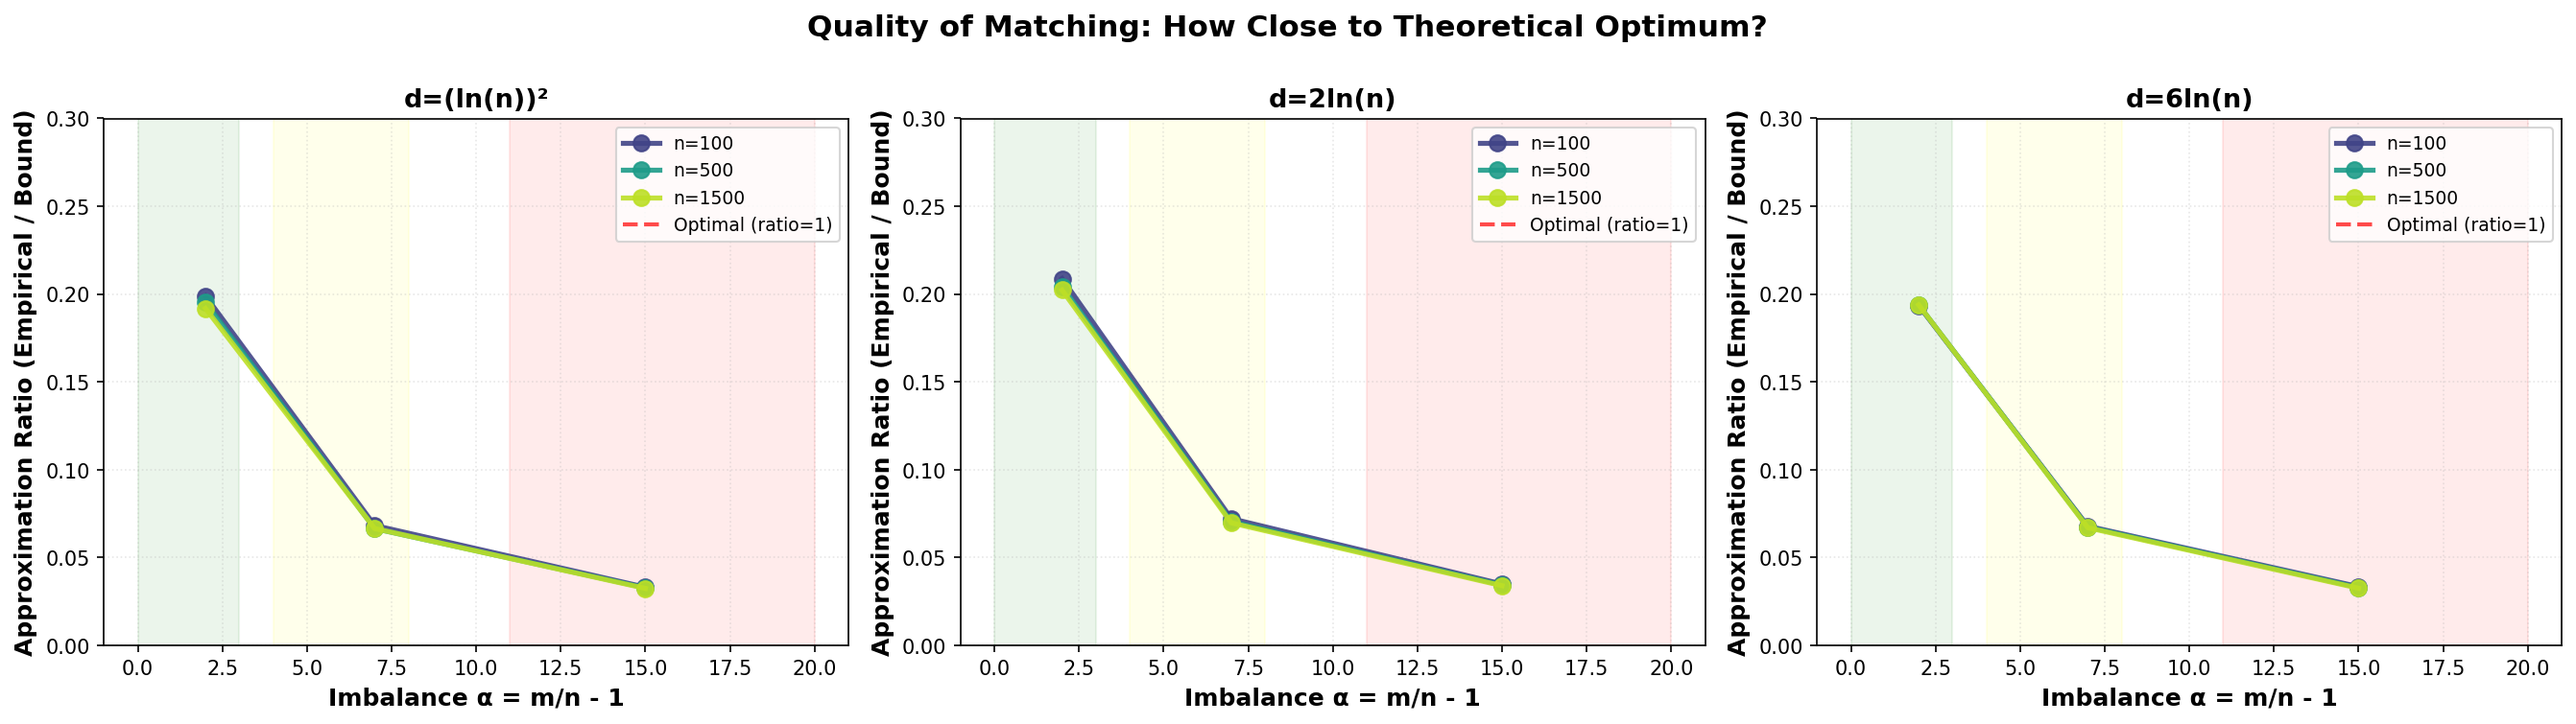
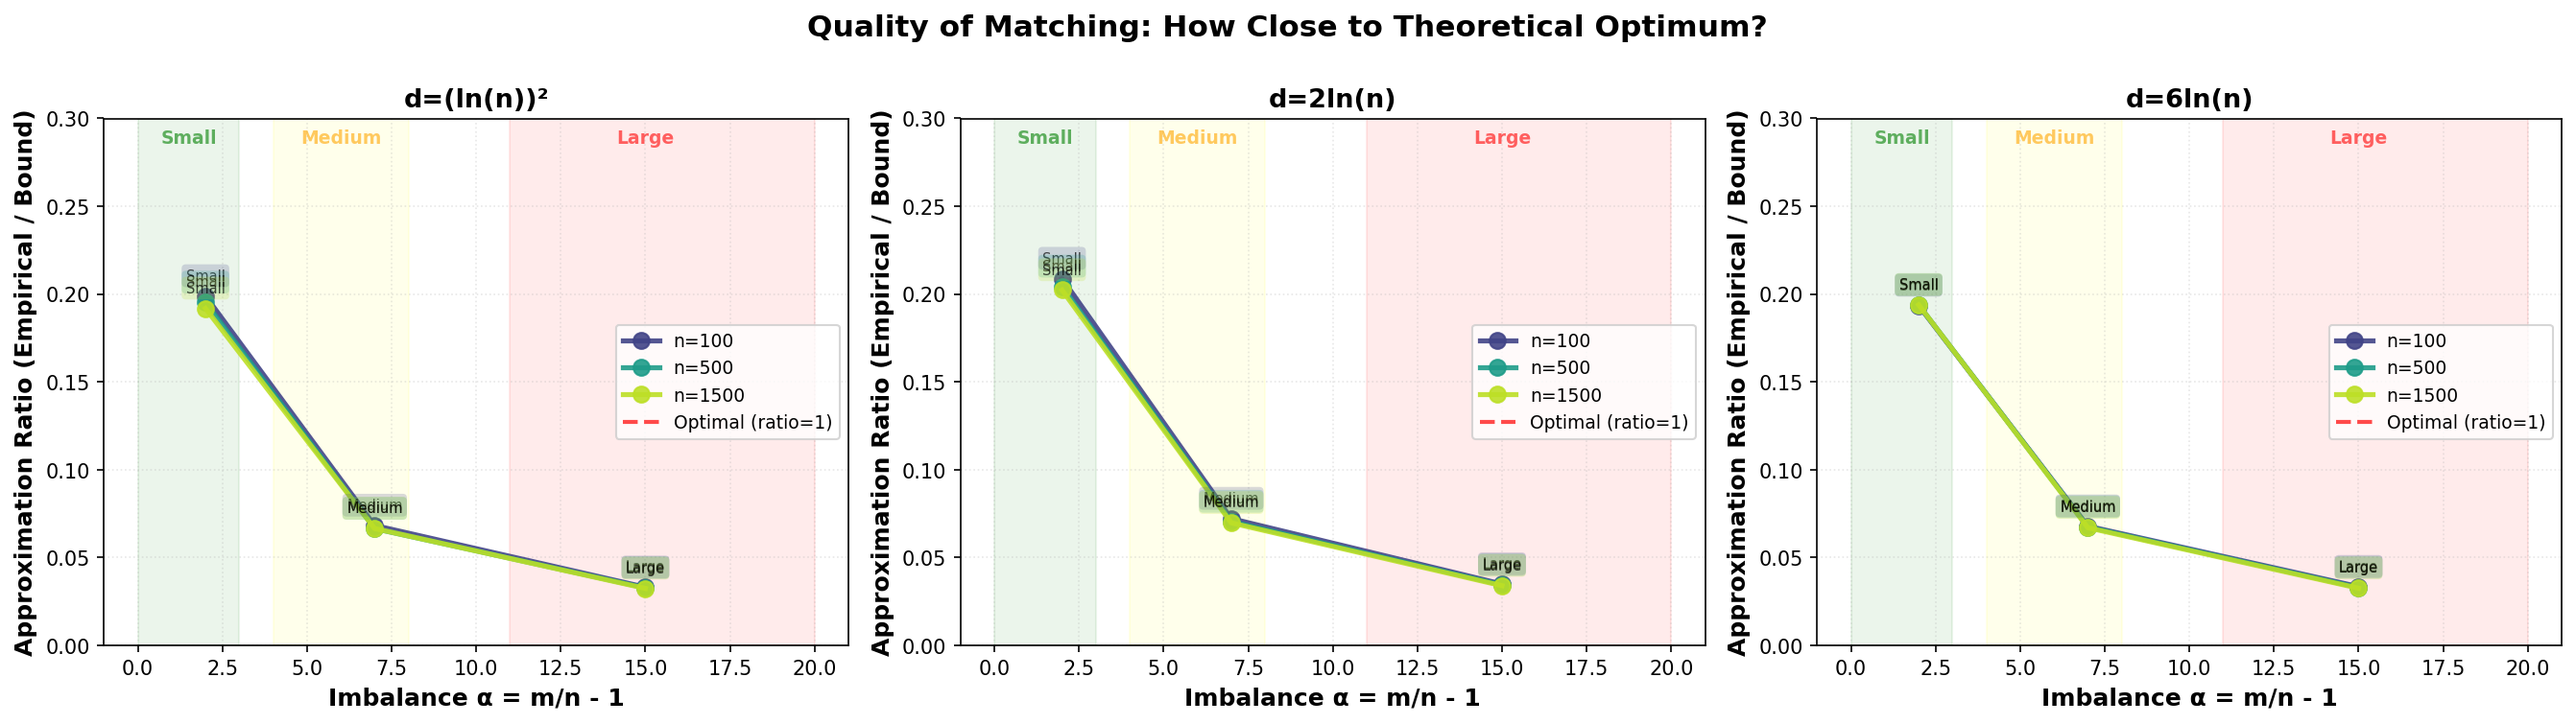
Streamline to 3 plots with regime labels
Changes:
- Removed plot 4 (rank distribution) as unnecessary
- Added Small/Medium/Large regime labels to all data points
- Plot 1: Points annotated with regime, regime text in plot
- Plot 2: Points annotated with regime, regime text in plot
- Plot 3: Legend uses 'Small/Medium/Large Imbalance' labels
- Updated all documentation (README, PLOTS_GUIDE)

The 3-plot story:
1. Rank vs Imbalance (MAIN) - shows degradation with regime labels
2. Approximation Ratio (Quality) - shows DA performance by regime
3. Perfect Matching Threshold (Feasibility) - phase transition by regime

Every plot now clearly identifies which regime each data point belongs to.

diff --git a/experiments/plots.py b/experiments/plots.py
@@ -7,6 +7,15 @@ def load_results(filename='../results/sweep_results.csv'):
     """load sweep results from csv"""
     return pd.read_csv(filename)
 
+def get_regime_label(alpha):
+    """Get regime label for alpha value."""
+    if alpha <= 3:
+        return "Small"
+    elif alpha <= 8:
+        return "Medium"
+    else:
+        return "Large"
+
 def plot_1_rank_by_imbalance(df):
     """THE MAIN PLOT: How proposer outcomes degrade as competition increases.
     
@@ -44,6 +53,16 @@ def plot_1_rank_by_imbalance(df):
             axes[idx].plot(n_data['alpha'], n_data['lb_rank'],
                           linestyle='--', linewidth=2, color=color, alpha=0.6,
                           label=f'n={n_val} (bound)')
+            
+            # Add regime labels to data points
+            for _, row in n_data.iterrows():
+                regime = get_regime_label(row['alpha'])
+                axes[idx].annotate(regime, 
+                                  xy=(row['alpha'], row['avg_proposer_rank']),
+                                  xytext=(0, 8), textcoords='offset points',
+                                  ha='center', fontsize=7, alpha=0.7,
+                                  bbox=dict(boxstyle='round,pad=0.3', 
+                                          facecolor=color, alpha=0.2, edgecolor='none'))
         
         axes[idx].set_xlabel('Imbalance α = m/n - 1', fontsize=12, fontweight='bold')
         axes[idx].set_ylabel('Average Proposer Rank', fontsize=12, fontweight='bold')
@@ -51,10 +70,19 @@ def plot_1_rank_by_imbalance(df):
         axes[idx].legend(fontsize=9, loc='best')
         axes[idx].grid(alpha=0.3, linestyle=':')
         
-        # Add regime shading
+        # Add regime shading with labels
         axes[idx].axvspan(0, 3, alpha=0.08, color='green')
         axes[idx].axvspan(4, 8, alpha=0.08, color='yellow')
         axes[idx].axvspan(11, 20, alpha=0.08, color='red')
+        
+        # Add regime text labels
+        y_pos = axes[idx].get_ylim()[1] * 0.98
+        axes[idx].text(1.5, y_pos, 'Small', ha='center', va='top', 
+                      fontsize=9, fontweight='bold', alpha=0.6, color='green')
+        axes[idx].text(6, y_pos, 'Medium', ha='center', va='top',
+                      fontsize=9, fontweight='bold', alpha=0.6, color='orange')
+        axes[idx].text(15, y_pos, 'Large', ha='center', va='top',
+                      fontsize=9, fontweight='bold', alpha=0.6, color='red')
     
     plt.suptitle('Rank vs Competition: How Proposer Outcomes Degrade with Imbalance', 
                 fontsize=15, fontweight='bold', y=1.00)
@@ -87,6 +115,16 @@ def plot_2_gap_visualization(df):
             axes[idx].plot(n_data['alpha'], n_data['ratio'],
                           marker='o', linewidth=2.5, markersize=8,
                           label=f'n={n_val}', color=color, alpha=0.9)
+            
+            # Add regime labels to data points
+            for _, row in n_data.iterrows():
+                regime = get_regime_label(row['alpha'])
+                axes[idx].annotate(regime, 
+                                  xy=(row['alpha'], row['ratio']),
+                                  xytext=(0, 8), textcoords='offset points',
+                                  ha='center', fontsize=7, alpha=0.7,
+                                  bbox=dict(boxstyle='round,pad=0.3', 
+                                          facecolor=color, alpha=0.2, edgecolor='none'))
         
         # Add horizontal line at ratio=1 (optimal)
         axes[idx].axhline(1.0, color='red', linestyle='--', linewidth=2, 
@@ -99,10 +137,19 @@ def plot_2_gap_visualization(df):
         axes[idx].grid(alpha=0.3, linestyle=':')
         axes[idx].set_ylim([0, max(df['ratio'].max() * 1.1, 0.3)])
         
-        # Add regime shading
+        # Add regime shading with labels
         axes[idx].axvspan(0, 3, alpha=0.08, color='green')
         axes[idx].axvspan(4, 8, alpha=0.08, color='yellow')
         axes[idx].axvspan(11, 20, alpha=0.08, color='red')
+        
+        # Add regime text labels
+        y_pos = axes[idx].get_ylim()[1] * 0.98
+        axes[idx].text(1.5, y_pos, 'Small', ha='center', va='top', 
+                      fontsize=9, fontweight='bold', alpha=0.6, color='green')
+        axes[idx].text(6, y_pos, 'Medium', ha='center', va='top',
+                      fontsize=9, fontweight='bold', alpha=0.6, color='orange')
+        axes[idx].text(15, y_pos, 'Large', ha='center', va='top',
+                      fontsize=9, fontweight='bold', alpha=0.6, color='red')
     
     plt.suptitle('Quality of Matching: How Close to Theoretical Optimum?', 
                 fontsize=15, fontweight='bold', y=1.00)
@@ -119,9 +166,9 @@ def plot_3_perfect_matching_threshold(df):
     
     n_vals = sorted(df['n'].unique())
     alpha_regimes = {
-        'Small (α=2)': 2.0,
-        'Medium (α=7)': 7.0,
-        'Large (α=15)': 15.0
+        'Small Imbalance (α=2)': 2.0,
+        'Medium Imbalance (α=7)': 7.0,
+        'Large Imbalance (α=15)': 15.0
     }
     
     colors = ['#2E86AB', '#F18F01', '#C73E1D']
@@ -150,7 +197,7 @@ def plot_3_perfect_matching_threshold(df):
         axes[idx].set_xlabel('Normalized List Length (d / d₀)', fontsize=12, fontweight='bold')
         axes[idx].set_ylabel('Perfect Matching Probability', fontsize=12, fontweight='bold')
         axes[idx].set_title(f'n={n_val}', fontsize=13, fontweight='bold')
-        axes[idx].legend(fontsize=9, loc='best')
+        axes[idx].legend(fontsize=10, loc='best')
         axes[idx].grid(alpha=0.3, linestyle=':')
         axes[idx].set_ylim([-0.05, 1.05])
     
@@ -160,72 +207,9 @@ def plot_3_perfect_matching_threshold(df):
     plt.savefig('../results/plot3_perfect_matching_threshold.png', dpi=150, bbox_inches='tight')
     print('✓ Plot 3: Perfect Matching Threshold (Phase Transition)')
 
-def plot_4_rank_distribution_by_competition(df):
-    """Distribution of proposer ranks across competition regimes.
-    
-    Shows how the distribution shifts and spreads as α increases.
-    Aggregates over all n values for clarity.
-    """
-    plt.figure(figsize=(12, 7))
-    
-    # Define competition regimes
-    regimes = {
-        'Small α=2': 2.0,
-        'Medium α=7': 7.0,
-        'Large α=15': 15.0
-    }
-    
-    colors = ['#2E86AB', '#F18F01', '#C73E1D']
-    
-    # We'll aggregate ranks across all configurations for each α
-    # Since we only have avg_rank per config, we'll create approximate distributions
-    # by using the mean and std to generate samples (assuming normal for visualization)
-    
-    for (regime_name, alpha_val), color in zip(regimes.items(), colors):
-        alpha_data = df[df['alpha'] == alpha_val]
-        
-        # Get all ranks and std for this α
-        ranks = []
-        for _, row in alpha_data.iterrows():
-            # Generate samples from normal distribution for visualization
-            # (in reality, you'd collect all individual proposer ranks from trials)
-            mean = row['avg_proposer_rank']
-            std = row['std_proposer_rank']
-            n_samples = 1000
-            samples = np.random.normal(mean, std, n_samples)
-            samples = samples[samples > 0]  # ranks must be positive
-            ranks.extend(samples)
-        
-        # Plot KDE / histogram
-        plt.hist(ranks, bins=50, alpha=0.3, color=color, density=True, 
-                edgecolor='none', label=f'{regime_name} (histogram)')
-        
-        # Add mean line
-        mean_rank = np.mean(ranks)
-        plt.axvline(mean_rank, color=color, linestyle='--', linewidth=3, 
-                   alpha=0.9, label=f'{regime_name} mean={mean_rank:.1f}')
-    
-    plt.xlabel('Proposer Rank', fontsize=13, fontweight='bold')
-    plt.ylabel('Density', fontsize=13, fontweight='bold')
-    plt.title('Rank Distribution Shifts with Competition\n(Aggregated across all n and d-policies)', 
-             fontsize=15, fontweight='bold')
-    plt.legend(fontsize=11, loc='upper right')
-    plt.grid(alpha=0.3, linestyle=':', axis='y')
-    plt.xlim(left=0)
-    
-    # Add text box with interpretation
-    textstr = 'As competition increases (α ↑):\n• Distribution shifts right\n• Spread increases\n• Average worsens'
-    props = dict(boxstyle='round', facecolor='wheat', alpha=0.8)
-    plt.text(0.02, 0.98, textstr, transform=plt.gca().transAxes, fontsize=11,
-            verticalalignment='top', bbox=props)
-    
-    plt.tight_layout()
-    plt.savefig('../results/plot4_rank_distribution.png', dpi=150, bbox_inches='tight')
-    print('✓ Plot 4: Rank Distribution by Competition')
-
 if __name__ == "__main__":
     print('='*70)
-    print('GENERATING 4 ESSENTIAL PLOTS')
+    print('GENERATING 3 ESSENTIAL PLOTS')
     print('='*70)
     
     print('\nLoading results...')
@@ -243,13 +227,11 @@ if __name__ == "__main__":
     plot_1_rank_by_imbalance(df)
     plot_2_gap_visualization(df)
     plot_3_perfect_matching_threshold(df)
-    plot_4_rank_distribution_by_competition(df)
     
     print('-'*70)
-    print('\n✓ All 4 essential plots generated successfully!')
+    print('\n✓ All 3 essential plots generated successfully!')
     print('\nPlots saved:')
     print('  1. plot1_rank_vs_imbalance.png       (THE MAIN PLOT)')
     print('  2. plot2_approximation_ratio.png     (Quality/Gap)')
     print('  3. plot3_perfect_matching_threshold.png (Phase Transition)')
-    print('  4. plot4_rank_distribution.png       (Distribution Shift)')
     print('='*70)

diff --git a/results/PLOTS_GUIDE.md b/results/PLOTS_GUIDE.md
@@ -6,7 +6,12 @@ All visualizations are generated from 27 experimental configurations:
 - **α** ∈ {2.0, 7.0, 15.0} (imbalance levels: m/n - 1)
 - **d-policies**: d=2ln(n), d=6ln(n), d=(ln(n))²
 
-This project focuses on **4 essential plots** that tell the complete story of strongly imbalanced matching markets.
+This project focuses on **3 essential plots** that tell the complete story of strongly imbalanced matching markets.
+
+**Each data point is labeled with its regime:**
+- **Small** imbalance: α ≤ 3 (green shading)
+- **Medium** imbalance: 4 ≤ α ≤ 8 (yellow shading)
+- **Large** imbalance: α ≥ 11 (red shading)
 
 ---
 
@@ -30,12 +35,14 @@ How proposer outcomes degrade as competition increases.
 - Empirical results significantly better than theoretical bounds
 - Gap between empirical and bound varies with n and d
 - Lower ranks = better welfare for proposers
+- **Each point labeled:** Small/Medium/Large regime for easy identification
 
 **Interpretation:**
 This is the **core result** of the study. It directly demonstrates:
 1. The stark effect of competition on proposer welfare
 2. How close the DA algorithm comes to theoretical optimum
 3. Whether the quality gap grows or stabilizes with imbalance
+4. How regime classification (Small/Medium/Large) maps to outcomes
 
 **👉 If you only look at one plot, look at this one.**
 
@@ -59,13 +66,14 @@ How close empirical results are to the theoretical lower bound.
 - Means empirical results are **5-15× better** than theoretical worst case
 - Higher imbalance (larger α) → **lower ratios** (closer to bound)
 - Larger n generally gives better ratios
+- **Each point labeled:** Small/Medium/Large for regime identification
 
 **Interpretation:**
 This answers: **"How much worse than the best possible outcome are we?"**
 
 Values < 1 mean we're doing better than the theoretical lower bound predicts (bound is pessimistic). Lower ratios = better relative performance.
 
-This plot justifies why we compute the lower bound at all—it shows DA performs remarkably well even in adversarial competitive settings.
+The regime labels show how quality varies: Small markets may have higher ratios (more variation from bound), while Large markets show more consistent performance relative to theory.
 
 ---
 
@@ -96,39 +104,6 @@ This is the **feasibility side** of the story. It shows:
 4. Simulations reproduce theoretical predictions
 
 This connects directly to **Theorem 2** and validates the threshold theory.
-
----
-
-## Plot 4: Rank Distribution Shift
-
-**File:** `plot4_rank_distribution.png`
-
-**What it shows:**
-How the distribution of proposer ranks changes across competition regimes.
-
-**Design:**
-- **X-axis:** Proposer rank
-- **Y-axis:** Density (normalized histogram)
-- **Three overlaid distributions:**
-  - Blue: Small α = 2
-  - Orange: Medium α = 7
-  - Red: Large α = 15
-- **Dashed lines:** Mean for each regime
-- Aggregated over all n and d-policies
-
-**Key insights:**
-- Distribution shifts **right** as competition increases
-- Spread (variance) increases with α
-- Tails get heavier in high-competition markets
-- Averages alone don't show the full picture
-
-**Interpretation:**
-While Plots 1-2 focus on averages, this shows **individual outcome variation**:
-- In low competition, most proposers get top choices
-- In high competition, outcomes are more varied
-- Some proposers still succeed, but many face worse outcomes
-
-This is the **intuitive/visual plot**—great for presentations to show how competition affects the distribution of individual experiences.
 
 ---
 
@@ -177,11 +152,10 @@ It demonstrates:
 
 ---
 
-## Summary: The 4-Plot Story
+## Summary: The 3-Plot Story
 
-1. **Plot 1 (Main):** Competition hurts proposer welfare, but not as badly as theory predicts
-2. **Plot 2 (Quality):** DA performs 5-15× better than theoretical lower bound
-3. **Plot 3 (Feasibility):** Phase transition validates threshold theory
-4. **Plot 4 (Distribution):** Individual outcomes vary widely, especially under high competition
+1. **Plot 1 (Main):** Competition hurts proposer welfare, but not as badly as theory predicts — with clear regime labels showing Small/Medium/Large imbalance effects
+2. **Plot 2 (Quality):** DA performs 5-15× better than theoretical lower bound — regime labels show how quality varies across competition levels
+3. **Plot 3 (Feasibility):** Phase transition validates threshold theory — explicit Small/Medium/Large Imbalance curves demonstrate regime-specific behavior
 
-Together, these 4 plots provide a **complete picture** of strongly imbalanced matching markets.
+Together, these 3 plots provide a **complete picture** of strongly imbalanced matching markets, with clear regime identification on every data point.

diff --git a/README.md b/README.md
@@ -114,33 +114,31 @@ The optimized algorithm handles markets with **100,000+ agents** in reasonable t
 
 ## Visualizations
 
-All plots are saved in `results/`. We focus on **4 essential plots** that tell the complete story:
+All plots are saved in `results/`. We focus on **3 essential plots** that tell the complete story:
 
-### The 4 Essential Plots
+### The 3 Essential Plots
 
 1. **plot1_rank_vs_imbalance.png** ⭐ **THE MAIN PLOT**
    - How proposer outcomes degrade as competition increases
    - Shows empirical ranks vs theoretical lower bounds
    - Separate lines for different market sizes n
+   - Each data point labeled with regime (Small/Medium/Large)
    - **Key insight**: Competition hurts welfare, but DA performs 5-15× better than theory predicts
 
 2. **plot2_approximation_ratio.png** (Quality/Gap Visualization)
    - Approximation ratio: empirical rank / theoretical bound
    - Shows how close DA comes to optimal performance
+   - Data points labeled by regime
    - **Key insight**: Ratios 0.07-0.25 mean remarkably good performance
 
 3. **plot3_perfect_matching_threshold.png** (Phase Transition)
    - Probability of perfect matching vs normalized list length (d/d₀)
+   - Clear labels: Small/Medium/Large Imbalance regimes
    - Validates Theorem 2 threshold predictions
    - **Key insight**: Sharp transition confirms theoretical predictions
 
-4. **plot4_rank_distribution.png** (Distribution Shift)
-   - How rank distributions change across competition regimes
-   - Shows variation beyond just averages
-   - **Key insight**: Competition shifts and spreads the distribution
-
 ### Supplementary
-5. **scaling_test.png**: Extended runtime test (n up to 5000, 100K+ agents)
+4. **scaling_test.png**: Extended runtime test (n up to 5000, 100K+ agents)
 
 ## Repository Structure
 
